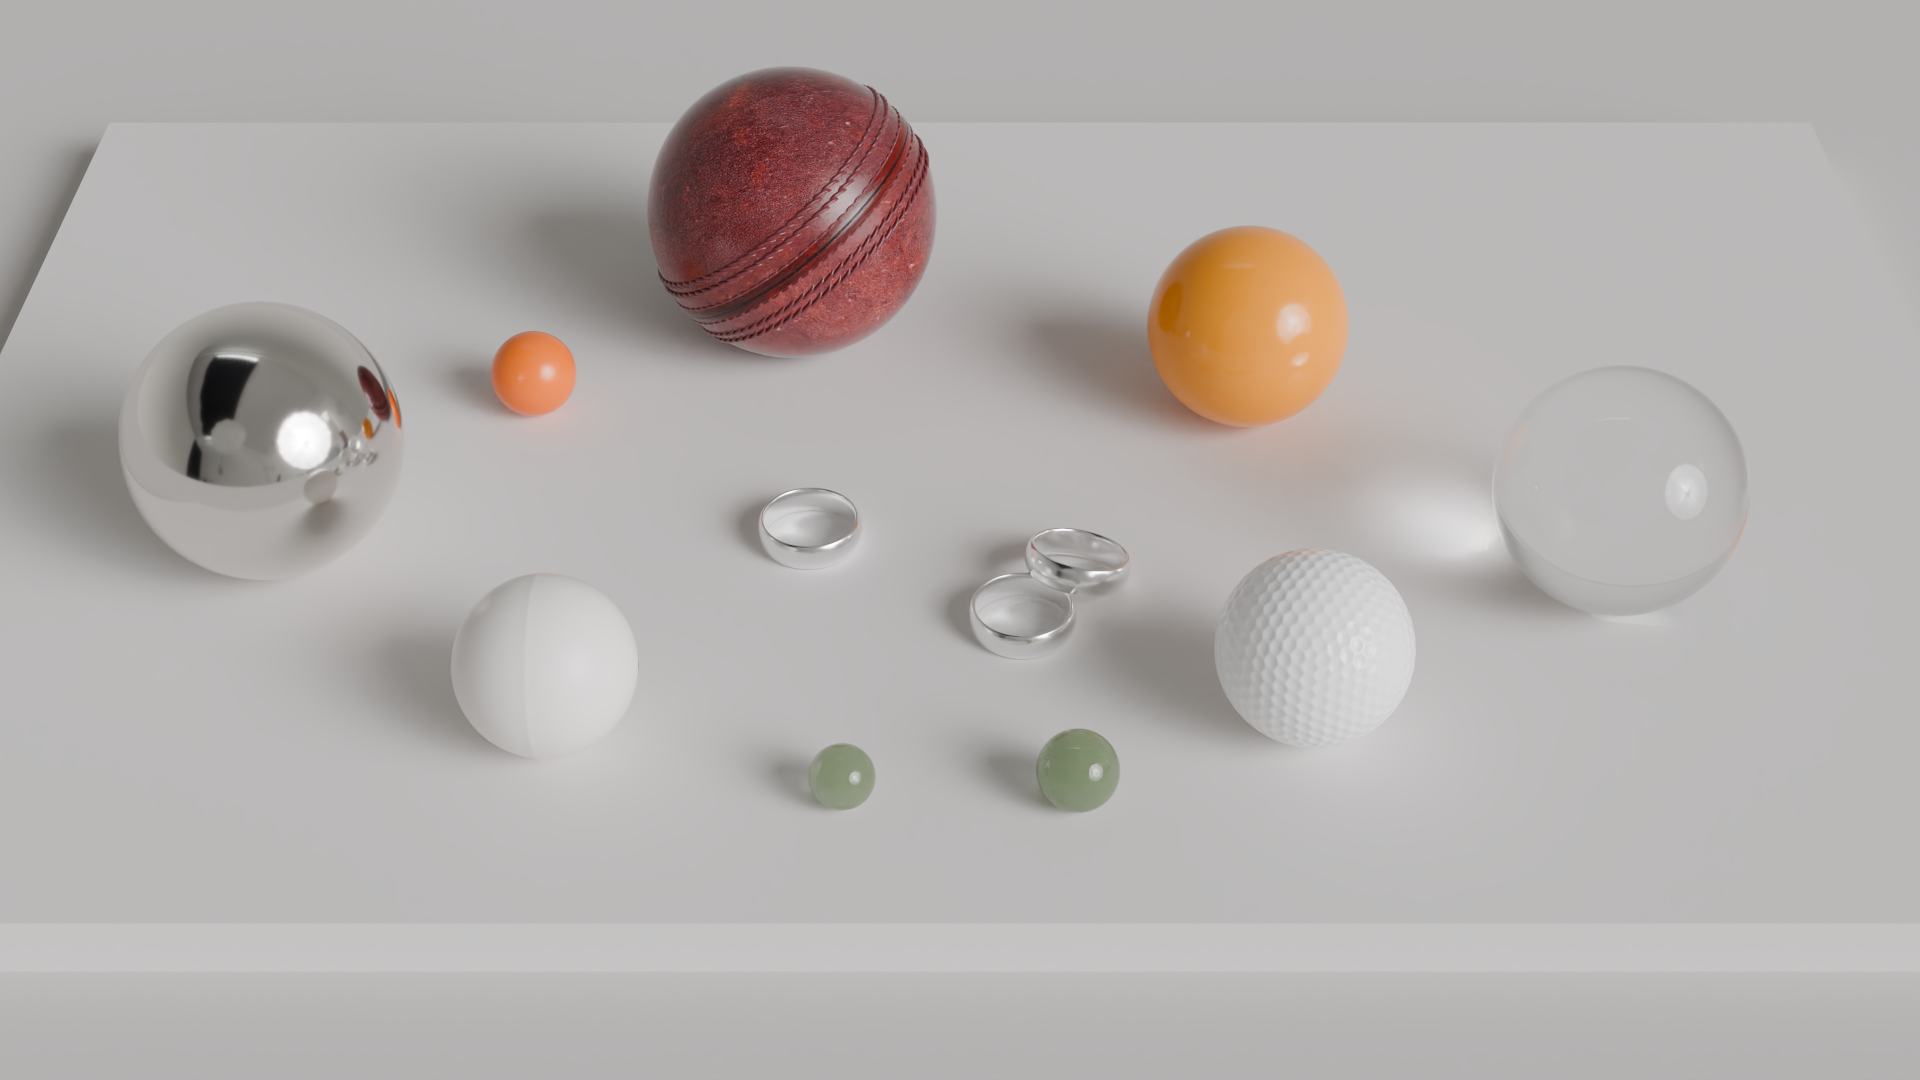
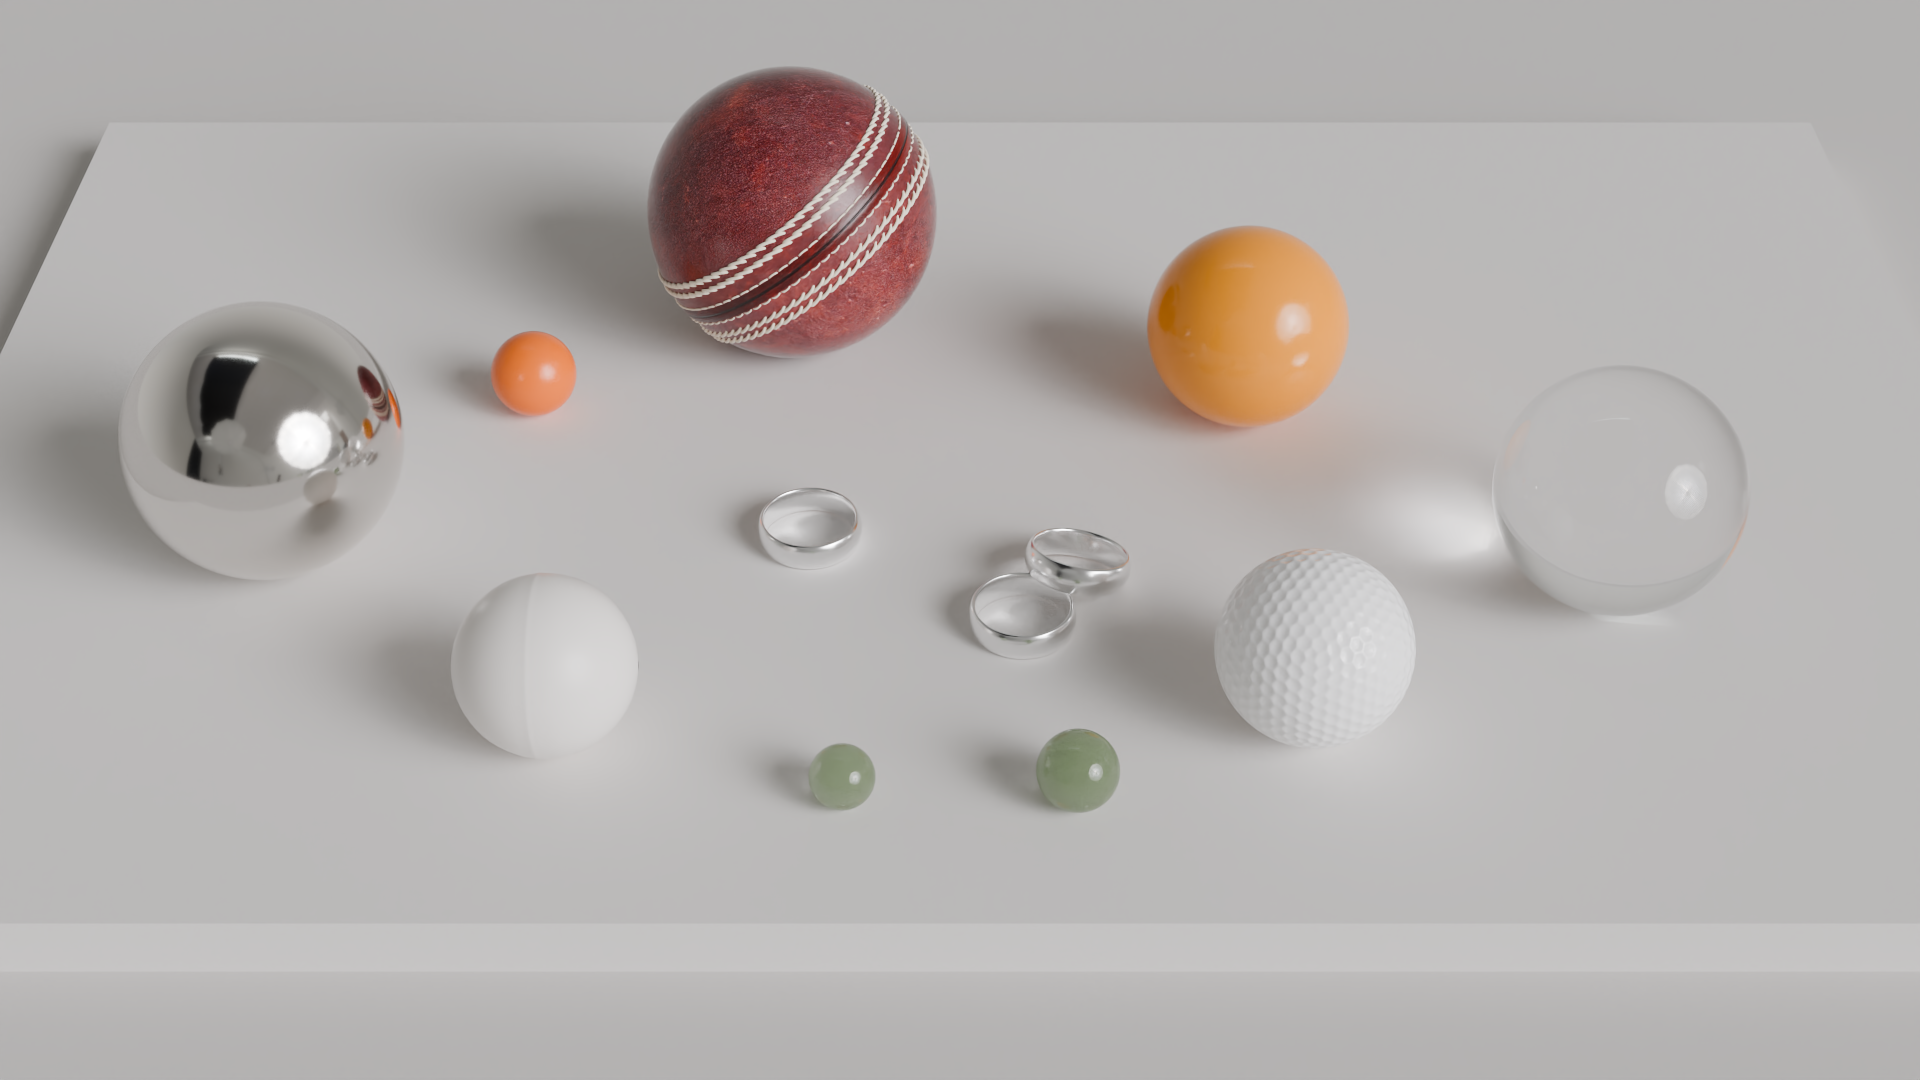
Update hyperion scene to use separate meshes for cricket ball stitching

Changed region(s): [[0.3438, 0.0917, 0.5, 0.3361], [0.1875, 0.3667, 0.2188, 0.3972]]

diff --git a/src/scenes/hyperion.rs b/src/scenes/hyperion.rs
@@ -54,6 +54,7 @@ pub fn hyperion_scene(width: Option<usize>, height: Option<usize>) -> Scene {
     let cricket_idx = mat!(materials, Plastic::new(ImageTexture::new("extras/textures/cricket_ball_diffuse.jpg", 1.0).into(), 0.30, 1.5));
     let pingpong_idx = mat!(materials, Plastic::new(Color::new(0.93, 0.89, 0.85).into(), 0.35, 1.45));
     let white_idx = mat!(materials, Plastic::new(Color::new(1.0, 1.0, 1.0).into(), 0.1, 1.45));
+    let cream_idx = mat!(materials, Plastic::new(Color::new(1.0, 0.904, 0.725).into(), 1.0, 1.45));
 
     let floor_plane = Plane::new(Axis::XZ, Bounds2D::new(-50.0..50.0, -50.0..50.0), 0.0, floor_idx);
     let platform = Rectangle::new(Vec3A::new(-3.5, 0.0, -4.0), Vec3A::new(3.5, 0.2, 0.5), platform_idx);
@@ -74,8 +75,12 @@ pub fn hyperion_scene(width: Option<usize>, height: Option<usize>) -> Scene {
     let ring_center = TransformedMesh::new(Vec3A::new(0.20, 0.20, -0.80), Vec3A::new(0.0, 45.0, 0.0), Vec3A::new(0.15, 0.17, 0.15), Primitive::TriangleMesh(Arc::clone(&ring_mesh)));
     let ring_right = TransformedMesh::new(Vec3A::new(0.375, 0.25, -1.0), Vec3A::new(-15.0, 0.0, -10.0), Vec3A::new(0.15, 0.17, 0.15), Primitive::TriangleMesh(Arc::clone(&ring_mesh)));
 
-    let cricket_ball_mesh = TriangleMesh::from("extras/models/cricket_ball.obj", cricket_idx);
+    let cricket_ball_mesh = TriangleMesh::from("extras/models/cricket_ball_no_stitch.obj", cricket_idx);
+    let cricket_ball_stitch_bottom_mesh = TriangleMesh::from("extras/models/cricket_ball_stitch_bottom.obj", cream_idx);
+    let cricket_ball_stitch_top_mesh = TriangleMesh::from("extras/models/cricket_ball_stitch_top.obj", cream_idx);
     let cricked_ball = TransformedMesh::new(Vec3A::new(-0.6, 0.70, -2.5), Vec3A::new(-30.0, 0.0, 15.0), Vec3A::splat(1.75), cricket_ball_mesh.into());
+    let cricked_ball_stitch_bottom = TransformedMesh::new(Vec3A::new(-0.6, 0.70, -2.5), Vec3A::new(-30.0, 0.0, 15.0), Vec3A::splat(1.75), cricket_ball_stitch_bottom_mesh.into());
+    let cricked_ball_stitch_top = TransformedMesh::new(Vec3A::new(-0.6, 0.70, -2.5), Vec3A::new(-30.0, 0.0, 15.0), Vec3A::splat(1.75), cricket_ball_stitch_top_mesh.into());
 
     let pingpong_mesh = TriangleMesh::from("extras/models/pingpong.obj", pingpong_idx);
     let pingpong_sphere = TransformedMesh::new(Vec3A::new(-1.25, 0.475, -0.3), Vec3A::new(0.0, 0.0, 90.0), Vec3A::splat(0.28), pingpong_mesh.into());
@@ -98,6 +103,8 @@ pub fn hyperion_scene(width: Option<usize>, height: Option<usize>) -> Scene {
     objects.push(ring_center.into());
     objects.push(ring_right.into());
     objects.push(cricked_ball.into());
+    objects.push(cricked_ball_stitch_bottom.into());
+    objects.push(cricked_ball_stitch_top.into());
     objects.push(pingpong_sphere.into());
     objects.push(golf_ball.into());
     objects.push(orange_sphere_small.into());
